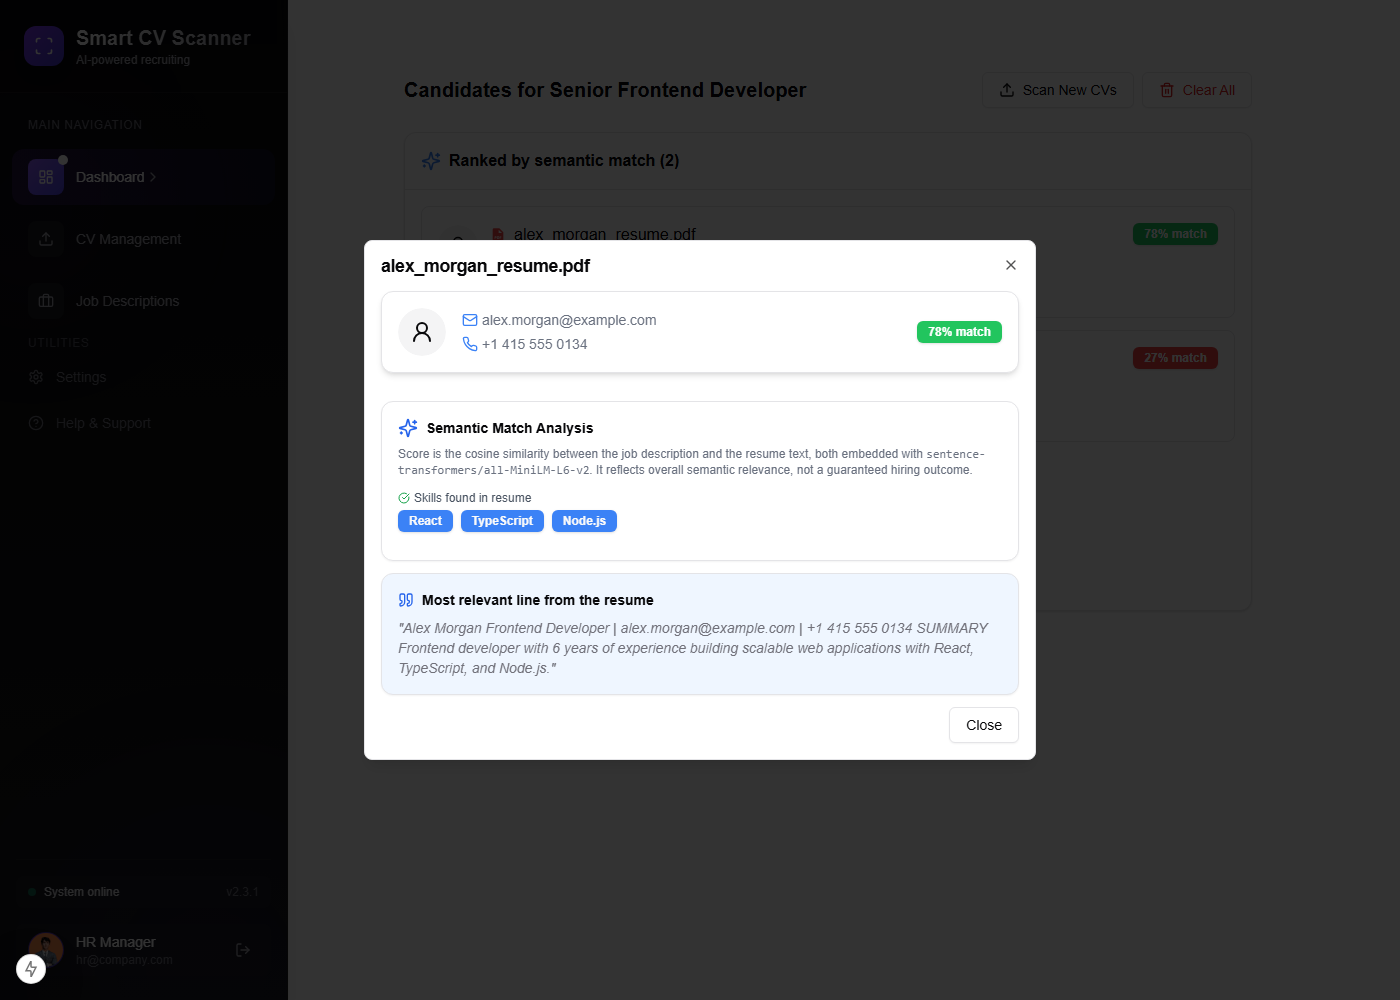
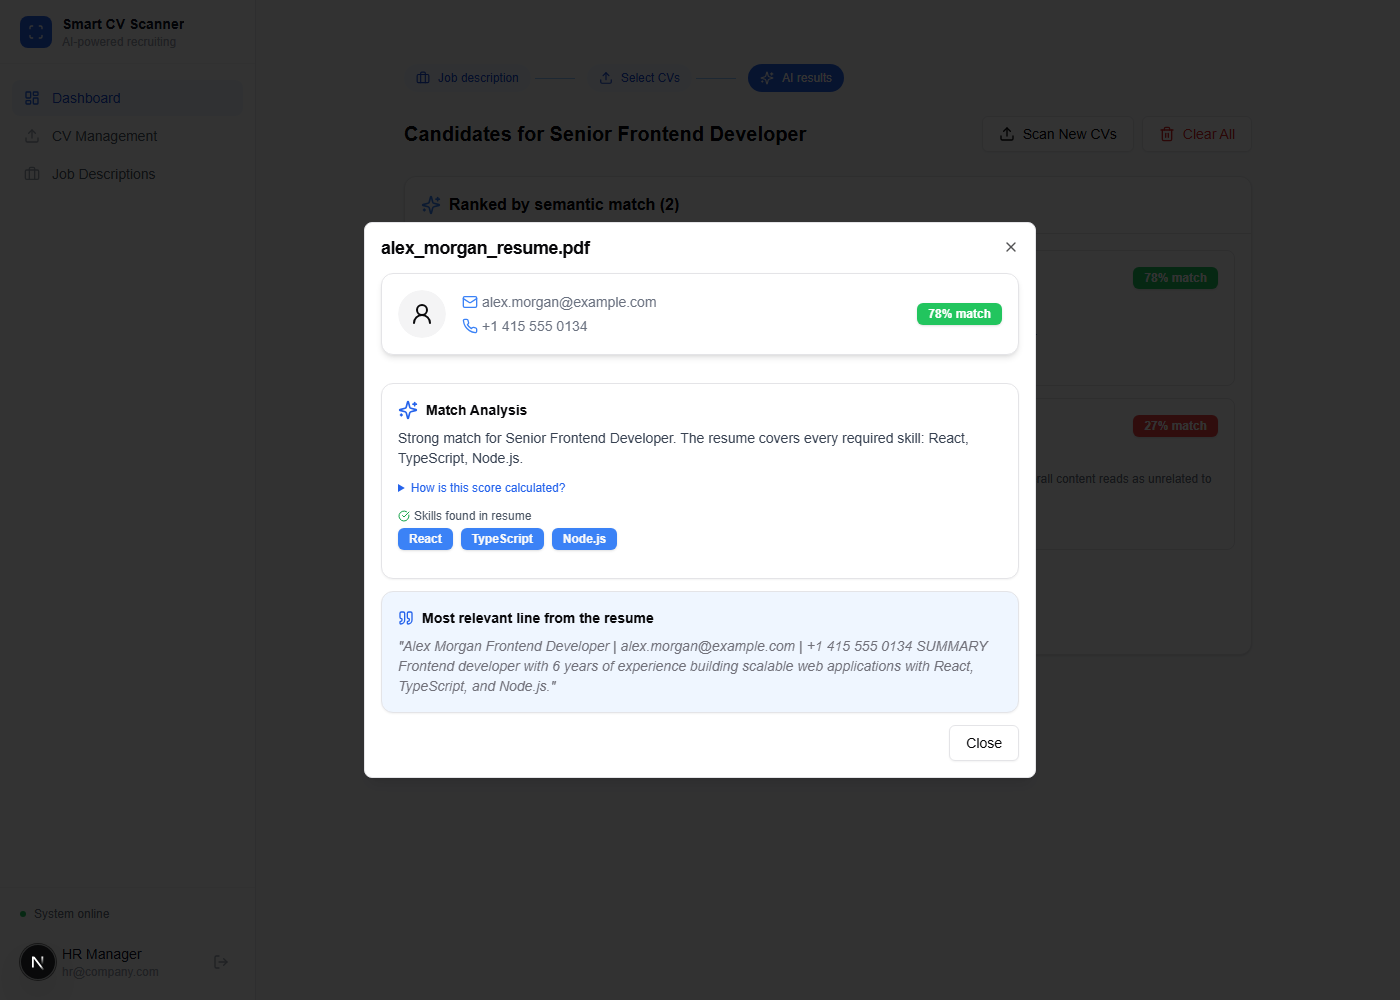
docs: refresh README screenshots and copy for the redesigned UI

diff --git a/README.md b/README.md
@@ -16,7 +16,7 @@ PASSWORD: password
 1. **Upload** — a PDF resume is parsed entirely in the browser with `pdfjs-dist`; its raw text is extracted, no server upload of the file itself is needed.
 2. **Embed** — the job description (title, responsibilities, qualifications, required skills) and each resume's text are embedded with `sentence-transformers/all-MiniLM-L6-v2`, run in a Next.js API route via `@xenova/transformers`.
 3. **Score** — the cosine similarity between the job embedding and each resume embedding produces the match percentage. This is a real, computed number — not a random or hardcoded value.
-4. **Explain** — the app also does simple keyword matching to show exactly which required skills were found (and missing) in the resume text, plus surfaces the single most relevant sentence from the resume as evidence for the score.
+4. **Explain** — the score is turned into a plain-language verdict ("Strong match... the resume covers React, TypeScript, Node.js" / "Weak match... doesn't mention X, Y, Z"), backed by simple keyword matching against the required skills and the single most relevant sentence pulled from the resume as evidence. The technical detail (model name, cosine similarity) is tucked into a collapsible note instead of being the headline.
 
 ![Candidate detail modal showing semantic match analysis, matched skills, and the resume's most relevant line](public/demo-detail.png)
 
@@ -31,10 +31,12 @@ This is applied NLP/embeddings, not a custom-trained model — the same techniqu
 - Real PDF text extraction (client-side, no file upload to a server)
 - Embedding-based semantic match scoring (`all-MiniLM-L6-v2`, cosine similarity)
 - Skill-level match/gap breakdown per candidate
+- Plain-language match verdict, not just a bare percentage
 - Evidence snippet: the most relevant line pulled straight from the resume
 - Job description CRUD (create, edit, delete postings)
 - CV library with upload, search, and management
-- Polished dashboard UI built with shadcn/ui, Tailwind, and Framer Motion
+- A step indicator ties Job description → Select CVs → AI results into one visible flow
+- Minimal light UI built with shadcn/ui, Tailwind, and Framer Motion
 
 ## Tech Stack
 
